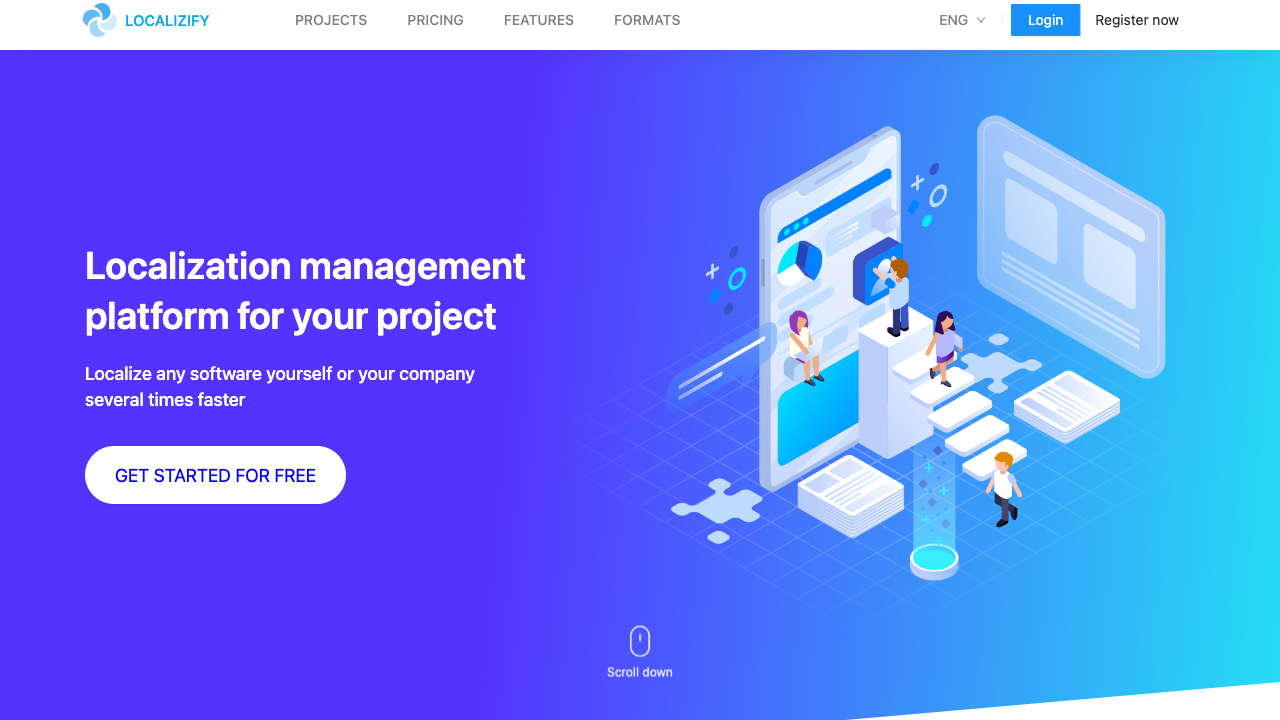
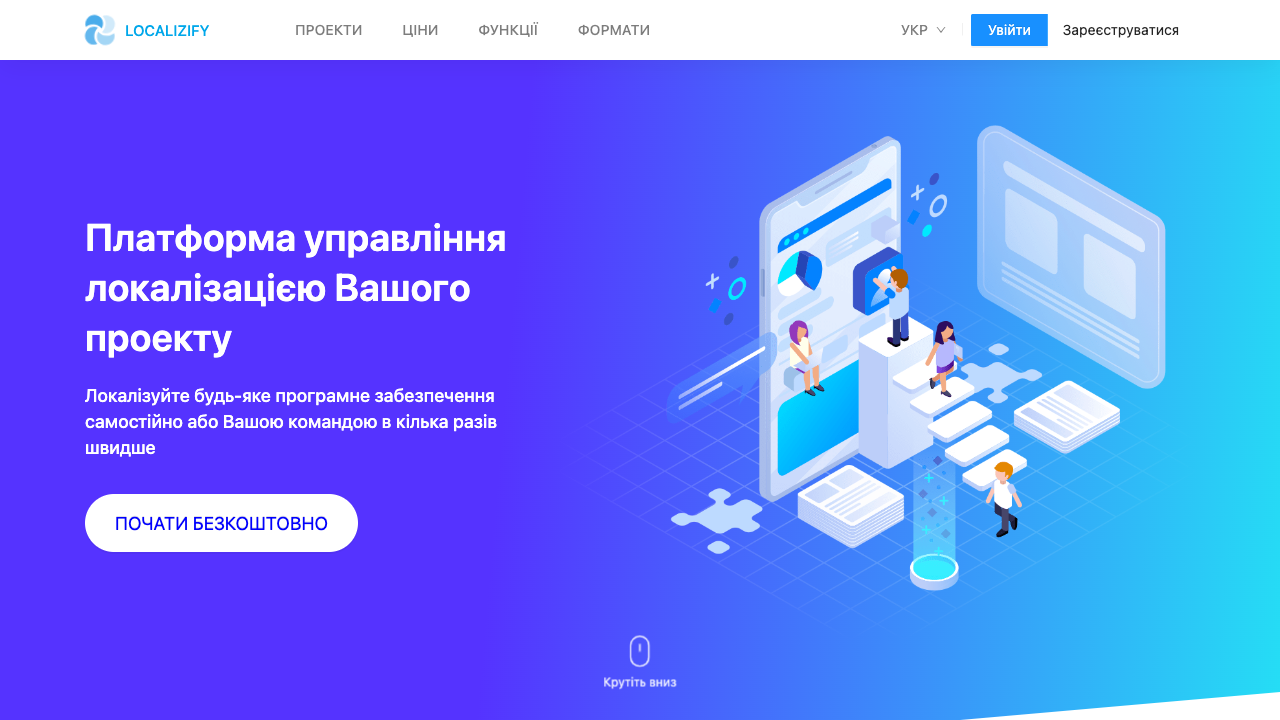
TASK-3 - added api test

diff --git a/tests/common.spec.ts b/tests/common.spec.ts
@@ -1,7 +1,6 @@
 import { expect } from '@playwright/test';
 import test from '@lib/BaseTest';
-import { USER } from '../data/users';
-import { URLS } from '../data/urls';
+import { LANGUAGES, USER, MAIN_PAGE_H1_TEXT, URLS } from '../data';
 
 test.beforeEach(async ({ page }) => {
   await page.goto(URLS.base);
@@ -12,7 +11,7 @@ test.describe('Localizify', () => {
     // Arrange
     await headerPage.LOGIN_BUTTON.click();
     await headerPage.verifyModalLoginButton(true);
-    await headerPage.INPUT_LOGIN_EMAIL.fill(USER.login);
+    await headerPage.INPUT_LOGIN_EMAIL.fill(USER.email);
     await headerPage.INPUT_LOGIN_PASSWORD.fill(USER.password);
     await headerPage.verifyModalLoginButton(false);
 
@@ -24,7 +23,7 @@ test.describe('Localizify', () => {
     // Assert
     // Test login request
     expect((await loginRequestPromise).postData()).toBe(
-      `{"email":"${USER.login}","password":"${USER.password}"}`,
+      `{"email":"${USER.email}","password":"${USER.password}"}`,
     );
 
     // Test the user is logged
@@ -34,7 +33,7 @@ test.describe('Localizify', () => {
   test('C2 Login | Error | Wrong password', async ({ headerPage }) => {
     // Arrange
     await headerPage.LOGIN_BUTTON.click();
-    await headerPage.INPUT_LOGIN_EMAIL.fill(USER.login);
+    await headerPage.INPUT_LOGIN_EMAIL.fill(USER.email);
     await headerPage.INPUT_LOGIN_PASSWORD.fill('1234567');
 
     // Act
@@ -61,24 +60,24 @@ test.describe('Localizify', () => {
     await expect(headerPage.LOGIN_BUTTON).toBeEnabled();
   });
 
-  test('C4 Test menu', async ({ headerPage }) => {
+  test('C4 Change localization | ENG -> UK', async ({
+    headerPage,
+    mainPage,
+    page,
+  }) => {
     // Arrange
-    await headerPage.loginToApplication();
+    await headerPage.languageButtonClick();
+    await page.screenshot({ path: 'example.png' });
+    await mainPage.checkH1Title(MAIN_PAGE_H1_TEXT.EN);
 
     // Act
-    await headerPage.USER_NAME_DISPLAY.hover();
-    const menu = headerPage.MENU_DROPDOWN.getByRole('listitem');
+    await headerPage.MENU_DROPDOWN.getByRole('listitem')
+      .filter({ hasText: LANGUAGES.UK })
+      .click();
+
+    await page.screenshot({ path: 'example.png' });
 
     // Assert
-    await expect(menu).toHaveCount(8);
-    await expect(menu).toContainText([
-      'My profile',
-      'AT Balance',
-      'Orders',
-      'Statistics',
-      'Special tariffs',
-      'Settings',
-      'Logout',
-    ]);
+    await mainPage.checkH1Title(MAIN_PAGE_H1_TEXT.UK);
   });
 });

diff --git a/tests/elements.spec.ts b/tests/elements.spec.ts
@@ -1,27 +1,33 @@
 import { expect } from '@playwright/test';
 import test from '@lib/BaseTest';
-import { URLS } from '../data/urls';
+import { URLS, LANGUAGES, MENU_ITEMS } from '../data';
 
-test.beforeEach(async ({ page, headerPage }) => {
+test.beforeEach(async ({ page }) => {
   await page.goto(URLS.base);
-  await headerPage.loginToApplication();
 });
 
 test.describe('Localizify: test elements', () => {
-  test('C4 Test menu', async ({ page, headerPage }) => {
-    await headerPage.USER_NAME_DISPLAY.hover();
+  test('CE1 Test profile menu list', async ({ page, headerPage }) => {
+    // Arrange
+    await headerPage.loginToApplication();
 
+    // Act
+    await headerPage.USER_NAME_DISPLAY.hover();
     await page.screenshot({ path: 'example.png' });
+
+    // Assert
     const menu = headerPage.MENU_DROPDOWN.getByRole('listitem');
     await expect(menu).toHaveCount(8);
-    await expect(menu).toContainText([
-      'My profile',
-      'AT Balance',
-      'Orders',
-      'Statistics',
-      'Special tariffs',
-      'Settings',
-      'Logout',
-    ]);
+    await expect(menu).toContainText(Object.values(MENU_ITEMS.EN));
+  });
+
+  test('CE2 Test localization list', async ({ headerPage }) => {
+    // Act
+    await headerPage.LANGUAGE_BUTTON.click();
+
+    // Assert
+    const menu = headerPage.MENU_DROPDOWN.getByRole('listitem');
+    await expect(menu).toHaveCount(3);
+    await expect(menu).toContainText(Object.values(LANGUAGES));
   });
 });

diff --git a/pageFactory/headerPage.ts b/pageFactory/headerPage.ts
@@ -1,6 +1,6 @@
 import { Locator } from 'playwright-core';
 import { expect, Page } from '@playwright/test';
-import { USER } from '../data/users';
+import { USER } from '../data';
 
 export class HeaderPage {
   public headerElement: Locator;
@@ -28,10 +28,8 @@ export class HeaderPage {
   public MENU_LOGOUT_BUTTON: Locator;
 
   constructor(page: Page) {
-    this.headerElement = page.locator('.container');
-    this.LANGUAGE_BUTTON = this.headerElement
-      .getByRole('button')
-      .locator('.localization');
+    this.headerElement = page.locator('site-header .container');
+    this.LANGUAGE_BUTTON = this.headerElement.locator('.localization');
     this.LOGIN_BUTTON = this.headerElement
       .locator('.login-container')
       .getByRole('button', { name: /Login/i });
@@ -86,8 +84,13 @@ export class HeaderPage {
 
   async loginToApplication(user = USER) {
     await this.LOGIN_BUTTON.click();
-    await this.INPUT_LOGIN_EMAIL.fill(user.login);
+    await this.INPUT_LOGIN_EMAIL.fill(user.email);
     await this.INPUT_LOGIN_PASSWORD.fill(user.password);
     await this.LOGIN_MODAL_BUTTON.click();
+  }
+
+  async languageButtonClick() {
+    await this.LANGUAGE_BUTTON.click();
+    await this.MENU_DROPDOWN.getByRole('listitem').isVisible();
   }
 }

diff --git a/api/serviceApi.ts b/api/serviceApi.ts
@@ -1,0 +1,40 @@
+import { URLS } from '@data/urls.data';
+import { ILoginBody, IResponse } from '@interfaces/ICommon';
+import { APIRequestContext, request, APIResponse } from '@playwright/test';
+
+export async function parseResponse(response: APIResponse): Promise<IResponse> {
+  return {
+    status: response.status(),
+    body: await response.json(),
+    url: response.url(),
+  };
+}
+
+export class ServiceApi {
+  private baseUrl: string;
+  private contextRequest: Promise<APIRequestContext>;
+
+  constructor() {
+    this.baseUrl = URLS.base;
+    this.contextRequest = this.initialize();
+  }
+
+  private async initialize(): Promise<APIRequestContext> {
+    return await request.newContext();
+  }
+
+  private async getRequest(): Promise<APIRequestContext> {
+    if (!this.contextRequest) {
+      this.contextRequest = this.initialize();
+    }
+    return this.contextRequest;
+  }
+
+  async login(data: ILoginBody): Promise<IResponse> {
+    const request = await this.getRequest();
+    const response = await request.post(this.baseUrl + '/api/auth/login', {
+      data,
+    });
+    return parseResponse(response);
+  }
+}

diff --git a/utils/joi.service.ts b/utils/joi.service.ts
@@ -1,0 +1,24 @@
+import { IUserResponseData } from '@interfaces/ICommon';
+import Joi, { Schema } from 'joi';
+
+export function verifyJoiSchemas(
+  value: object,
+  joiSchema: Schema,
+  message: string,
+) {
+  return Joi.assert(value, joiSchema, message);
+}
+
+export function userDataSchema(data: IUserResponseData) {
+  const { surname = null } = data;
+  return Joi.object({
+    id: Joi.number().valid(data.id).required(),
+    register: Joi.string().required(),
+    name: Joi.string().valid(data.name).required(),
+    surname: Joi.string().valid(surname).required(),
+    email: Joi.string().valid(data.email).required(),
+    avatar: Joi.string().valid(null).required(),
+    roles: Joi.array().length(0).required(),
+    hasPasswordExist: Joi.boolean().valid(data.hasPasswordExist).required(),
+  }).required();
+}

diff --git a/tests/api.spec.ts b/tests/api.spec.ts
@@ -1,0 +1,27 @@
+import { test, expect } from '@playwright/test';
+import { ServiceApi } from '../api';
+import { USER } from '../data';
+import { userDataSchema, verifyJoiSchemas } from '../utils';
+
+test.describe('Localizify Api tests', () => {
+  let serviceApi: ServiceApi;
+
+  test.beforeEach(async ({ page }) => {
+    serviceApi = new ServiceApi(page);
+  });
+
+  test('CAPI-1 Login | Success', async () => {
+    // Act
+    const response = await serviceApi.login(USER);
+
+    // Assert
+    expect(response.status, `Status for ${response.url} should be 200`).toBe(
+      200,
+    );
+    verifyJoiSchemas(
+      response.body,
+      userDataSchema(USER),
+      `Wrong schema for userData response body`,
+    );
+  });
+});

diff --git a/lib/BaseTest.ts b/lib/BaseTest.ts
@@ -1,11 +1,15 @@
 import { test as baseTest } from '@playwright/test';
-import { HeaderPage } from '../pageFactory/headerPage';
+import { HeaderPage, MainPage } from '../pageFactory';
 
 const test = baseTest.extend<{
   headerPage: HeaderPage;
+  mainPage: MainPage;
 }>({
   headerPage: async ({ page }, use) => {
     await use(new HeaderPage(page));
+  },
+  mainPage: async ({ page }, use) => {
+    await use(new MainPage(page));
   },
 });
 

diff --git a/pageFactory/mainPage.ts b/pageFactory/mainPage.ts
@@ -1,0 +1,14 @@
+import { Locator } from '@playwright/test';
+import { expect, Page } from '@playwright/test';
+
+export class MainPage {
+  public H1_TITLE: Locator;
+
+  constructor(page: Page) {
+    this.H1_TITLE = page.locator('h1');
+  }
+
+  async checkH1Title(title: string) {
+    await expect(this.H1_TITLE, 'H1 text must be ahother').toContainText(title);
+  }
+}

diff --git a/interfaces/ICommon.ts b/interfaces/ICommon.ts
@@ -1,0 +1,18 @@
+export interface ILoginBody {
+  email: string;
+  password: string;
+}
+
+export interface IResponse {
+  status: number;
+  body: object;
+  url: string;
+}
+
+export interface IUserResponseData {
+  id: number;
+  name: string;
+  email: string;
+  hasPasswordExist: boolean;
+  surname?: string;
+}

diff --git a/data/common.data.ts b/data/common.data.ts
@@ -1,0 +1,11 @@
+export const MENU_ITEMS = {
+  EN: {
+    MY_PROFILE: 'My profile',
+    AT_BALANCE: 'AT Balance',
+    OREDERS: 'Orders',
+    STATISTICS: 'Statistics',
+    TAREFFS: 'Special tariffs',
+    SETTINGS: 'Settings',
+    LOGOUT: 'Logout',
+  },
+};

diff --git a/data/localization.data.ts b/data/localization.data.ts
@@ -1,0 +1,4 @@
+export const MAIN_PAGE_H1_TEXT = {
+  UK: 'Платформа управління локалізацією Вашого проекту',
+  EN: 'Localization management platform for your project',
+};

diff --git a/data/users.data.ts b/data/users.data.ts
@@ -1,5 +1,7 @@
 export const USER = {
   name: 'Pavlo',
-  login: 'makarenko.gup@gmail.com',
+  email: 'makarenko.gup@gmail.com',
   password: 'iQakcLHFhKt5S3S',
+  id: 55,
+  hasPasswordExist: true,
 };
